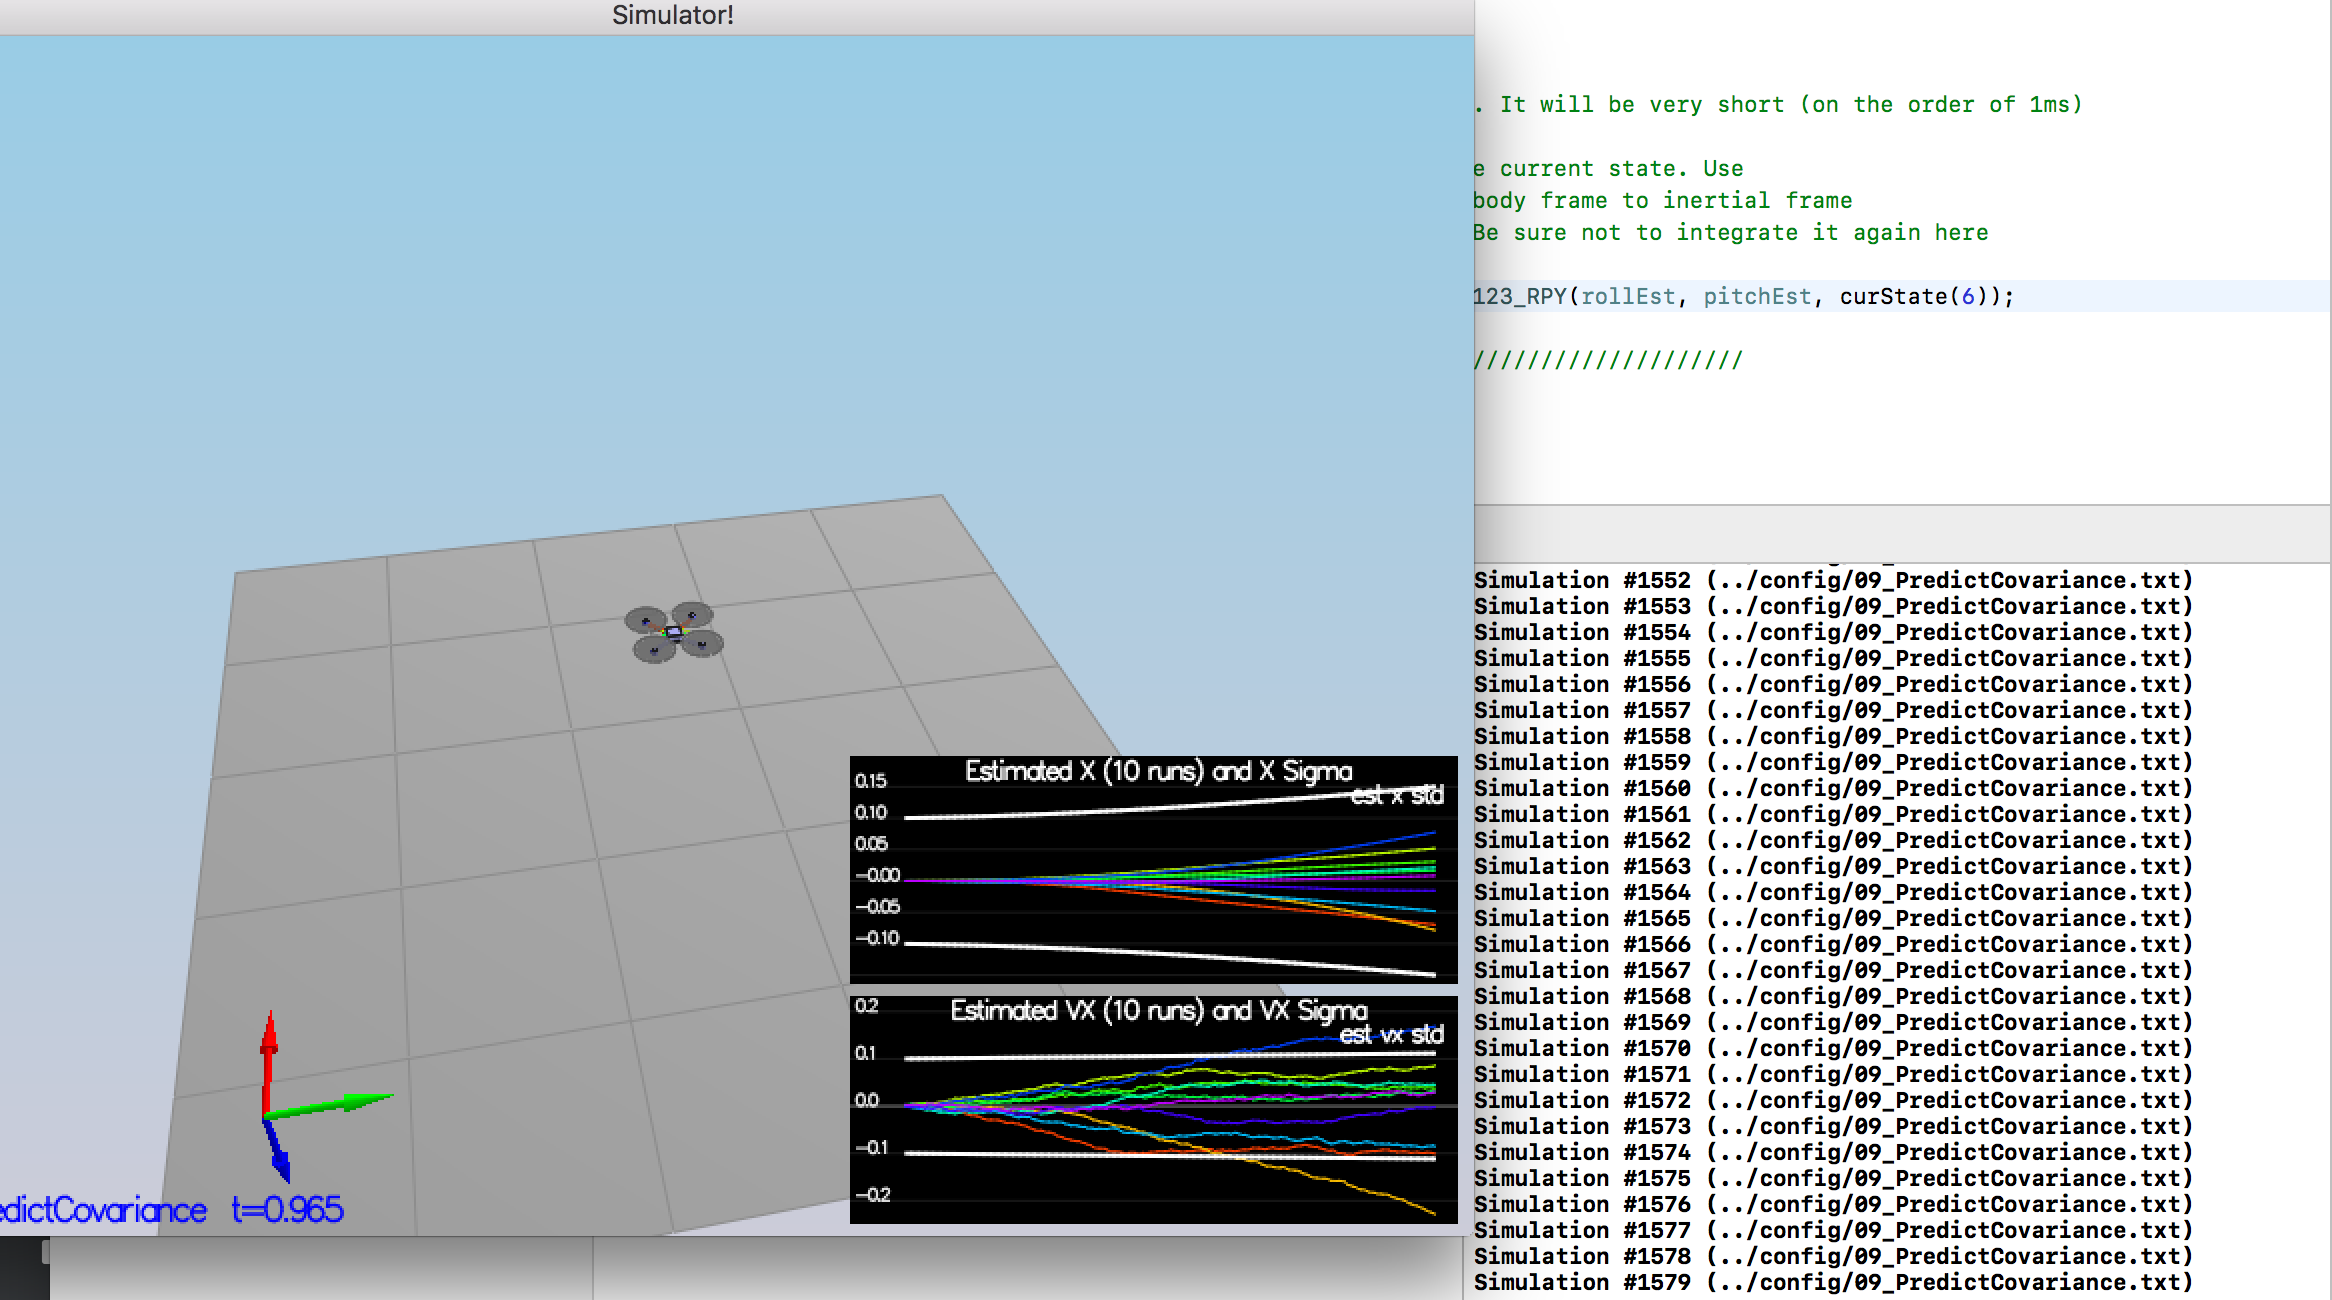
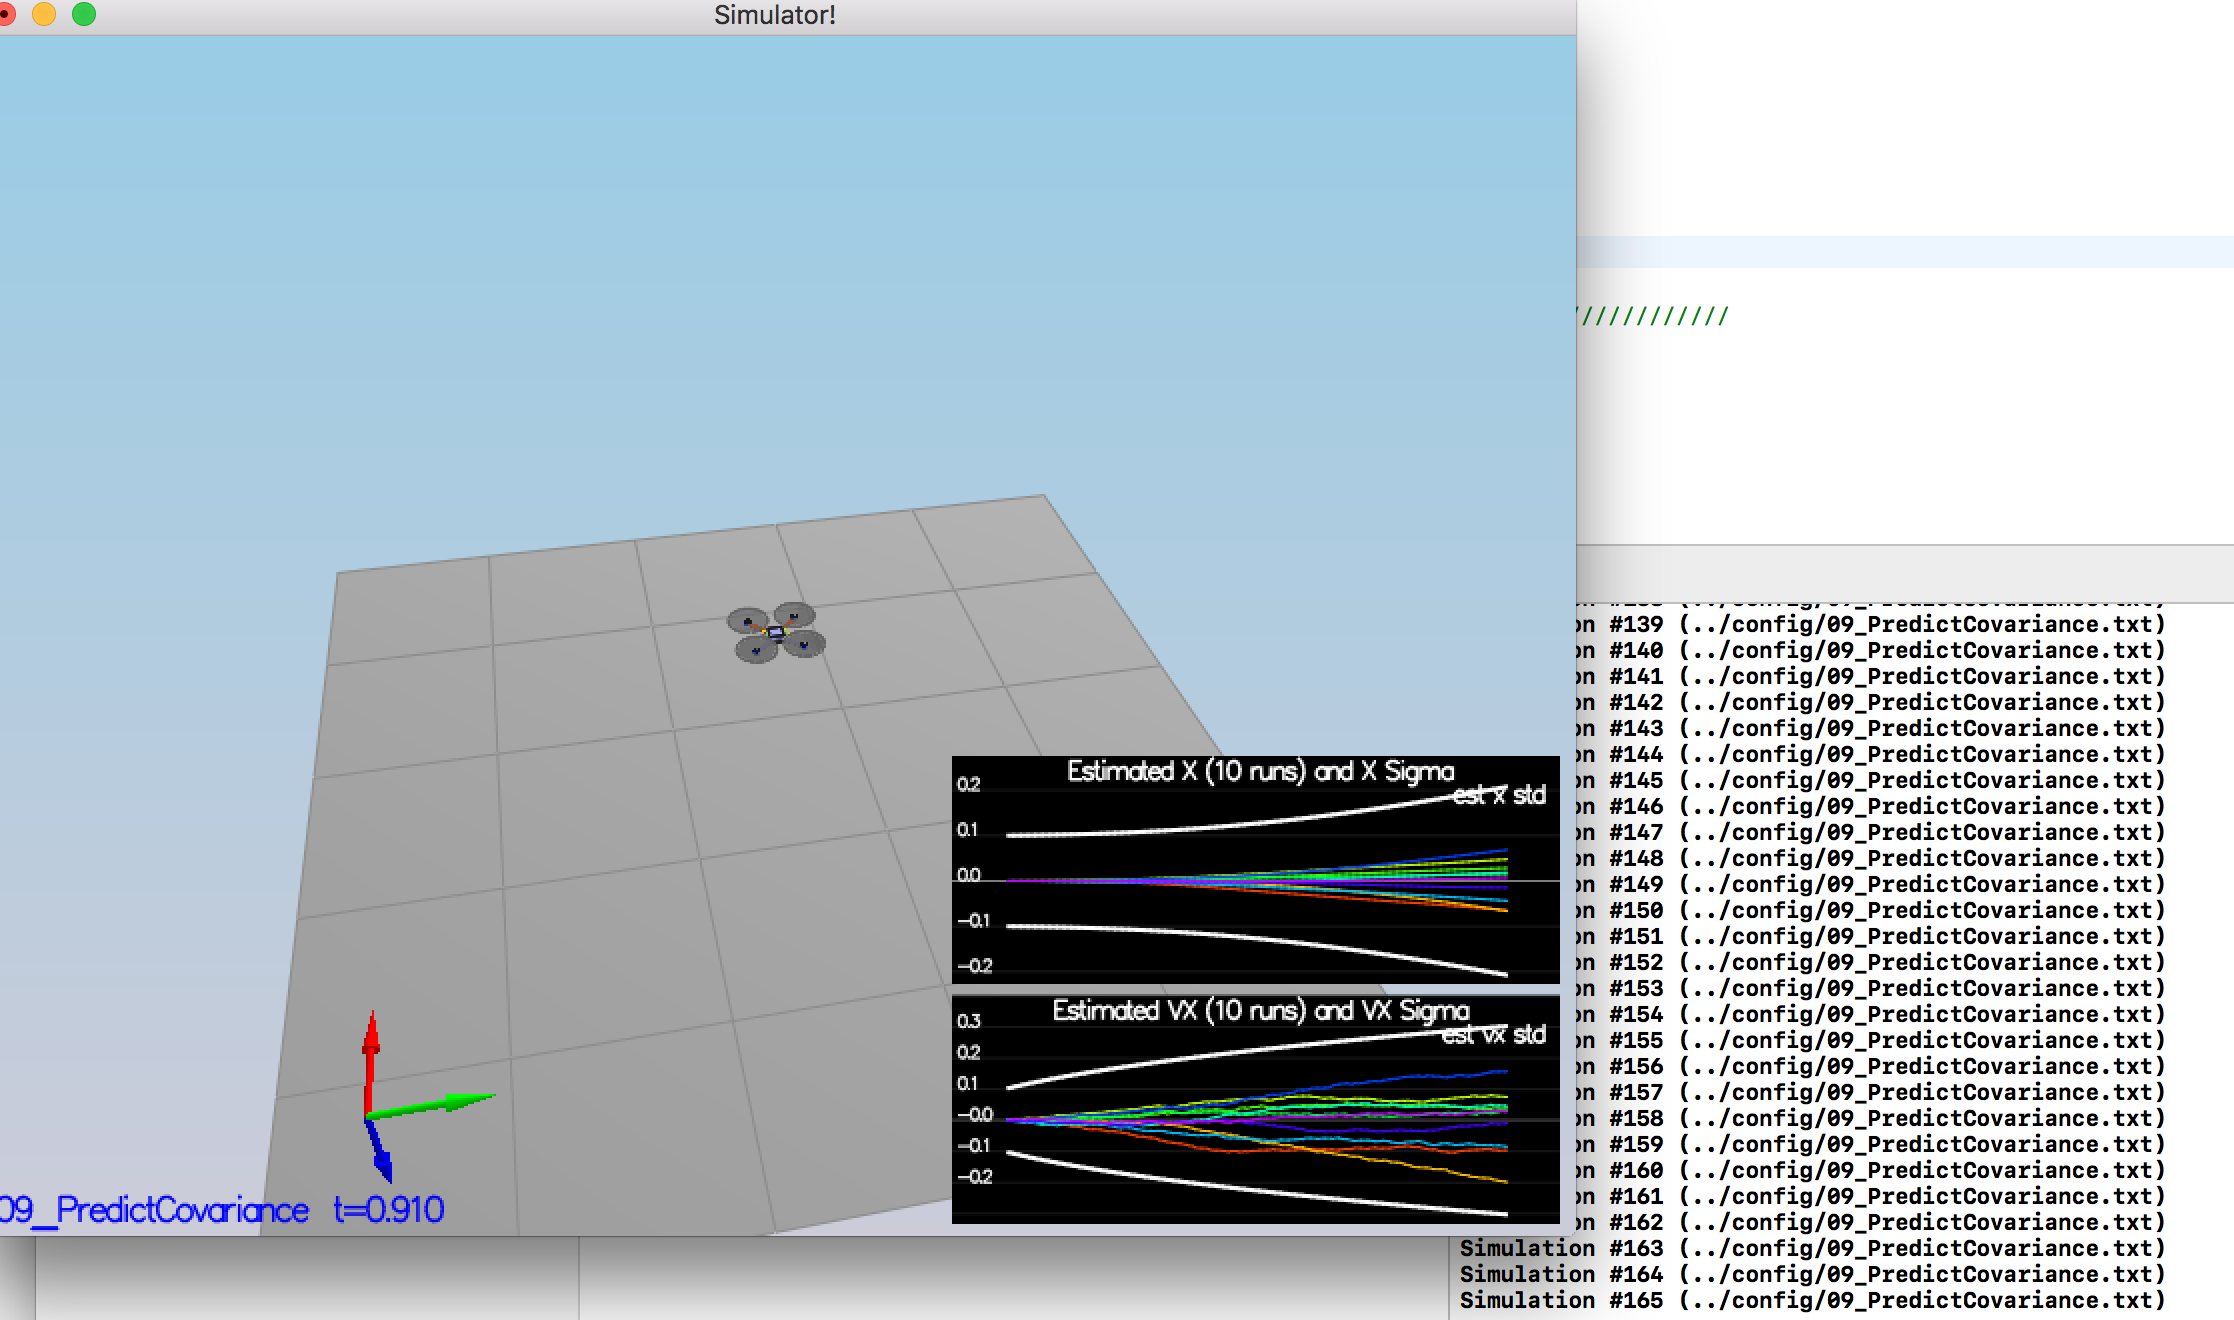
update param QVelXYStd

diff --git a/README.md b/README.md
@@ -62,6 +62,9 @@ In this next step you will be implementing the prediction step of your filter.
 
 - implement the code in the function [`GetRbgPrime()`](src/QuadEstimatorEKF.cpp#184-233)
 - implement the code in the function [`Predict()`](src/QuadEstimatorEKF.cpp#L145-L182)
+- Tune the parameter `QVelXYStd` (`QuadEstimatorEKF.txt`)
+`QVelXYStd = .3`
+- the picture of result:
 
 ![](images/09_PredictionCov.png)
 
